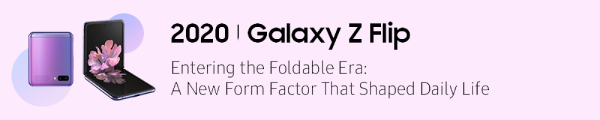
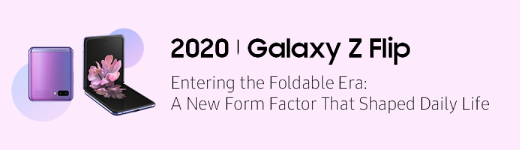
Height adjustment

Changed region(s): [[0.0, 0.1, 0.9538, 0.85]]

diff --git a/src/styles.scss b/src/styles.scss
@@ -10,7 +10,7 @@
     order: -1;
 }
 .main-container {
-    padding: 5px 10px 0 10px;
+    padding: 0px 10px 0 10px;
 }
 .arrow-menu{
     position: relative;
@@ -110,9 +110,10 @@
     position: fixed;
 }
 .mobile-takeover{
-  height: 90px;
-  display: grid;
-  place-items: center;
+  height: 140px;
+  img{
+    padding: 10px 0;
+  }
 }
 header{
   height: 53px;

diff --git a/inner-page.html b/inner-page.html
@@ -241,10 +241,10 @@
 		</a>
 	</div>
 
-		<div class="mobile-takeover">
-			<img src="./img/ad-banner.png" alt="">
-		</div>
-        <div class="main-container ">
+	<div class="main-container ">
+			<div class="mobile-takeover">
+				<img src="./img/ad-banner.png" alt="">
+			</div>
  
     <div class="panelbox news">
 

diff --git a/css/styles.css b/css/styles.css
@@ -10,7 +10,7 @@
 }
 
 .main-container {
-  padding: 5px 10px 0 10px;
+  padding: 0px 10px 0 10px;
 }
 
 .arrow-menu {
@@ -117,9 +117,10 @@
 }
 
 .mobile-takeover {
-  height: 90px;
-  display: grid;
-  place-items: center;
+  height: 140px;
+}
+.mobile-takeover img {
+  padding: 10px 0;
 }
 
 header {
